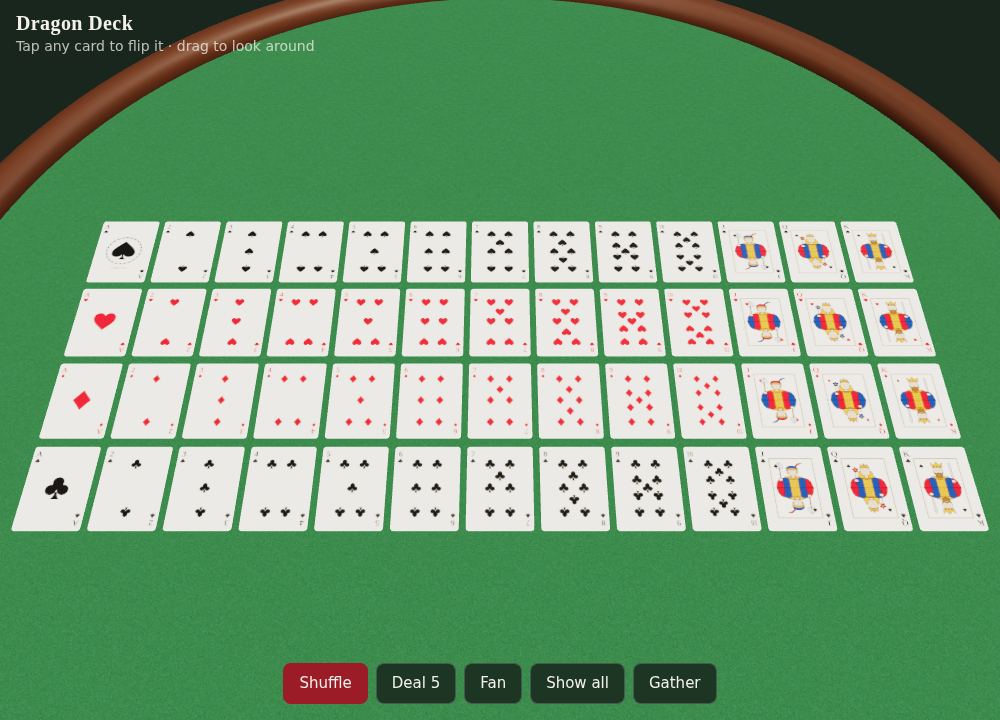
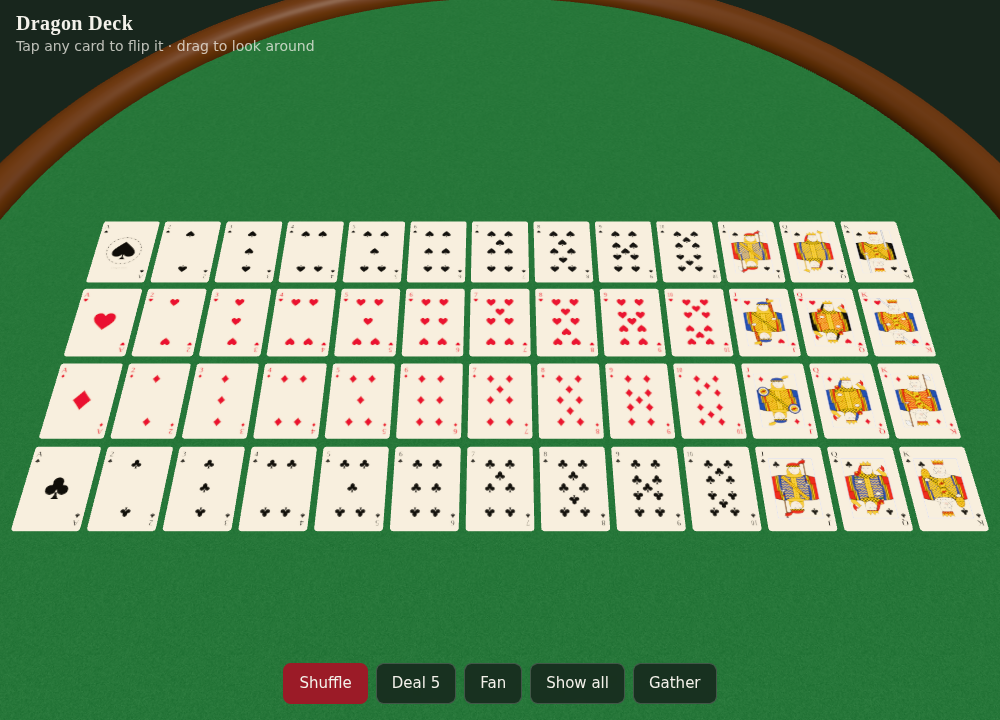
Traditional-style court cards with dragon touches
Redraws J, Q and K in the classic printed style: flat red, yellow, blue
and black with heavy outlines, patterned robes, double-ended figures
meeting on a diagonal, and a large suit symbol in the frame corner.
Dragon references: dragon-scale cloth, a dragon badge on each king's
chest, a dragon egg (K clubs), dragon-wing sword guard and axe blade,
a little dragon perched on each queen's shoulder, a dragon-headed
sceptre (Q spades), dragon-wing plumes on the jacks' caps and a dragon
shield (J diamonds).

Claude-Session: https://claude.ai/code/session_011sbz8Qg3PLjYgjJ6kkM3NU

diff --git a/cardArt.js b/cardArt.js
@@ -60,85 +60,174 @@ function ace(ctx,s){
   ctx.fillStyle=INK.black;ctx.font=`italic 15px Georgia,serif`;ctx.textAlign="center";ctx.fillText("Dragon Deck",W/2,H/2+118);
 }
 
-/* ---------- court cards (J, Q, K): a double-ended figure, mirrored top to bottom like real cards ---------- */
+/* ---------- court cards (J, Q, K) ----------
+   Drawn in the traditional printed style: flat red, yellow, blue and black with heavy outlines and patterned robes.
+   The top half is drawn once; then the canvas is turned 180 degrees and the same drawing fills the bottom half.
+   The two halves meet on a diagonal, like real cards.
+   Dragon touches: dragon-scale cloth, a dragon badge on each king's chest, a little dragon perched on each
+   queen's shoulder, a dragon-wing plume in each jack's cap, and dragon-themed things in their hands. */
+const CK={red:"#d0281e",yellow:"#f2cd1d",blue:"#2b4ea6",black:"#151515",white:"#fffdf6",steel:"#e8edf3"};
+// colours, cloth pattern and the item each court card holds
+const COURT={
+  KS:{robe:"red",sleeve:"black",pat:"scales",item:"sword"},   KH:{robe:"red",sleeve:"blue",pat:"checker",item:"swordBehind"},
+  KC:{robe:"blue",sleeve:"red",pat:"scales",item:"egg"},      KD:{robe:"red",sleeve:"blue",pat:"zigzag",item:"axe"},
+  QS:{robe:"blue",sleeve:"red",pat:"scales",item:"sceptre"},  QH:{robe:"red",sleeve:"black",pat:"checker",item:"rose"},
+  QC:{robe:"blue",sleeve:"red",pat:"zigzag",item:"rose"},     QD:{robe:"red",sleeve:"blue",pat:"scales",item:"rose"},
+  JS:{robe:"blue",sleeve:"red",pat:"checker",item:"halberd"}, JH:{robe:"red",sleeve:"blue",pat:"scales",item:"feather"},
+  JC:{robe:"blue",sleeve:"red",pat:"zigzag",item:"arrow"},    JD:{robe:"red",sleeve:"blue",pat:"scales",item:"shield"},
+};
+// small repeating cloth patterns, drawn once at double resolution and reused
+const patterns={};
+function pattern(ctx,kind,a,b){
+  const key=kind+a+b;
+  if(!patterns[key]){
+    const size={checker:[12,12],scales:[12,10],zigzag:[12,10],stripes:[8,8],dots:[10,10]}[kind];
+    const c=document.createElement("canvas");c.width=size[0]*2;c.height=size[1]*2;
+    const g=c.getContext("2d");g.scale(2,2);g.fillStyle=a;g.fillRect(0,0,size[0],size[1]);g.fillStyle=b;g.strokeStyle=b;
+    if(kind==="checker"){g.fillRect(0,0,6,6);g.fillRect(6,6,6,6)}
+    if(kind==="scales"){g.strokeStyle=CK.black;g.lineWidth=.9;for(const[x,y]of[[0,0],[12,0],[6,5],[0,10],[12,10]]){g.beginPath();g.arc(x,y,5.6,0,Math.PI);g.fill();g.stroke()}}
+    if(kind==="zigzag"){g.lineWidth=2.4;g.beginPath();g.moveTo(-1,8);g.lineTo(6,2);g.lineTo(13,8);g.stroke()}
+    if(kind==="stripes")g.fillRect(0,0,3.5,8);
+    if(kind==="dots"){g.beginPath();g.arc(5,5,1.5,0,7);g.fill();g.fillRect(4.4,5,1.2,3.5)}
+    patterns[key]=c;
+  }
+  const p=ctx.createPattern(patterns[key],"repeat");p.setTransform(new DOMMatrix().scale(.5));return p;
+}
+
 function court(ctx,rank,s){
-  const red=suitColor(s)===INK.red,main=red?INK.red:INK.blue,second=red?INK.blue:INK.red;
-  const fx=52,fy=62,fw=196,fh=296;
-  ctx.save();ctx.beginPath();ctx.rect(fx,fy,fw,fh);ctx.clip();
-  ctx.fillStyle="#fffdf6";ctx.fillRect(fx,fy,fw,fh);
-  for(const flip of[false,true]){
-    ctx.save();ctx.translate(W/2,H/2);if(flip)ctx.rotate(Math.PI);
-    ctx.beginPath();ctx.rect(-fw/2,-fh/2,fw,fh/2);ctx.clip();
-    figure(ctx,rank,s,main,second);
+  const fx=52,fy=62,fw=196,fh=296,o=COURT[rank+s];
+  ctx.fillStyle=CK.white;ctx.fillRect(fx,fy,fw,fh);
+  for(const turn of[0,Math.PI]){
+    ctx.save();ctx.translate(W/2,H/2);ctx.rotate(turn);
+    ctx.beginPath();ctx.moveTo(-fw/2,-fh/2);ctx.lineTo(fw/2,-fh/2);ctx.lineTo(fw/2,-22);ctx.lineTo(-fw/2,22);ctx.clip(); // the diagonal half
+    ctx.save();courtFigure(ctx,rank,s,o);ctx.restore();
+    suit(ctx,s,-67,-118,36);
     ctx.restore();
   }
-  ctx.restore();
-  ctx.strokeStyle=INK.black;ctx.lineWidth=2;ctx.strokeRect(fx,fy,fw,fh);
-  ctx.strokeStyle=INK.gold;ctx.lineWidth=1.5;ctx.strokeRect(fx+4,fy+4,fw-8,fh-8);
-  ctx.strokeStyle=INK.black;ctx.lineWidth=1.5;ctx.beginPath();ctx.moveTo(fx,H/2);ctx.lineTo(fx+fw,H/2);ctx.stroke();
+  ctx.strokeStyle=CK.black;ctx.lineWidth=1.2;ctx.beginPath();ctx.moveTo(fx,H/2+22);ctx.lineTo(fx+fw,H/2-22);ctx.stroke();
+  ctx.strokeStyle=CK.blue;ctx.lineWidth=1.6;ctx.strokeRect(fx,fy,fw,fh);
 }
-// one half-figure, drawn with its waist at (0,0) and head toward -y
-function figure(ctx,rank,s,main,second){
-  const line=(w=2)=>{ctx.lineWidth=w;ctx.strokeStyle=INK.black;ctx.lineJoin="round";ctx.lineCap="round"};
-  const shape=(d,fill)=>{const p=new Path2D(d);ctx.fillStyle=fill;ctx.fill(p);line();ctx.stroke(p)};
-  const hair=rank==="K"?"#9a6a1c":INK.gold;
-  ctx.translate(0,4);ctx.scale(.9,.9);
 
-  // the item they hold, behind the body: K a sword, Q a flower, J a halberd
-  if(rank==="K"){shape("M62 -6L58 -132L64 -146L70 -132L66 -6Z","#dfe4ea");shape("M46 -30H82V-24H46Z",INK.gold)}
-  if(rank==="J"){shape("M-66 -2L-63 -120L-59 -120L-62 -2Z","#8a5a2b");shape("M-61 -146C-44 -138 -40 -122 -46 -110L-61 -114Z",'#dfe4ea');shape("M-61 -146C-78 -138 -82 -122 -76 -110L-61 -114Z",'#dfe4ea')}
+// one half-figure: frame centre at (0,0), head toward -y, the figure's head a little right of centre
+function courtFigure(ctx,rank,s,o){
+  const C=k=>CK[k]||k;
+  const ink=(lw=1.8,col=CK.black)=>{ctx.lineWidth=lw;ctx.strokeStyle=col;ctx.lineJoin="round";ctx.lineCap="round"};
+  const fill=(d,f,lw=1.8)=>{const p=new Path2D(d);ctx.fillStyle=f;ctx.fill(p);ink(lw);ctx.stroke(p)};
+  const line=(d,lw=1.2,col=CK.black)=>{ink(lw,col);ctx.stroke(new Path2D(d))};
+  const pat=(kind,a,b)=>pattern(ctx,kind,C(a),C(b));
+  const hand=(x,y)=>{fill(`M${x-8} ${y}C${x-9} ${y-8} ${x+7} ${y-10} ${x+9} ${y-2}C${x+9} ${y+6} ${x-7} ${y+7} ${x-8} ${y}Z`,CK.white,1.5);line(`M${x-3} ${y-6}V${y+4}M${x+2} ${y-6}V${y+4}`,1)};
+  const roundel=(x,y,r)=>{ // a gold badge with a red dragon curled inside
+    fill(`M${x+r} ${y}A${r} ${r} 0 1 1 ${x-r} ${y}A${r} ${r} 0 1 1 ${x+r} ${y}Z`,CK.yellow,1.5);
+    ctx.save();ctx.translate(x,y);ctx.scale(r/14,r/14);
+    fill("M-8 7C-12 2 -8 -3 -2 -1C3 1 7 -1 6 -6L10 -9L9 -4L12 -3L8 -1C8 5 1 6 -3 4C-6 3 -7 5 -5 8Z",CK.red,1);
+    fill("M-1 -1L-5 -9L1 -5L3 -10L4 -2Z",CK.red,1);
+    ctx.restore();
+  };
+  const robe=C(o.robe),sleeve=C(o.sleeve);
+  ctx.translate(-6,22);ctx.scale(1.25,1.25); // enlarge so the figure fills the frame, like real court cards
+  const headSpace=()=>{ctx.save();ctx.translate(10,-70);ctx.scale(.8,.8);ctx.translate(-10,70)}; // heads a little smaller than the body
 
-  // robe: shoulders, a centre panel, and a gold collar
-  shape("M-92 0C-90 -32 -78 -54 -40 -62H40C78 -54 90 -32 92 0Z",main);
-  shape("M-22 0V-60H22V0Z",INK.gold);
-  ctx.fillStyle=INK.black;for(let y=-50;y<0;y+=12)for(const x of[-10,0,10]){ctx.beginPath();ctx.arc(x+(y/12&1?5:0),y,1.6,0,7);ctx.fill()}
-  shape("M-92 0C-90 -32 -80 -52 -60 -58L-52 0Z",second);
-  shape("M92 0C90 -32 80 -52 60 -58L52 0Z",second);
-  shape("M-44 -64C-30 -48 30 -48 44 -64C30 -72 -30 -72 -44 -64Z",INK.gold);
-  ctx.fillStyle=main;for(let x=-30;x<=30;x+=15){ctx.beginPath();ctx.arc(x,-60,3,0,7);ctx.fill()}
+  /* items carried behind the body (shifted in so they stay inside the frame) */
+  const inward=()=>{ctx.save();ctx.translate(-24,o.item==="sceptre"?18:0)};
+  inward();
+  if(o.item==="swordBehind"){fill("M58 -40L-36 -150L-28 -152L64 -46Z",CK.steel,1.6);line("M61 -43L-32 -151",1,CK.blue)}
+  if(o.item==="halberd"||o.item==="sceptre"||o.item==="axe"||o.item==="arrow")fill("M72 -16V-136H77V-16Z",o.item==="sceptre"?CK.yellow:"#9a6a2c",1.5);
+  if(o.item==="feather"){fill("M70 -30C50 -70 44 -110 58 -146C76 -110 80 -70 70 -30Z",pat("scales","yellow","red"),1.6);line("M70 -30C62 -70 58 -110 58 -146",1.2)}
 
-  // hands holding the item
-  if(rank==="K")shape("M54 -40C54 -50 74 -50 74 -40C74 -30 54 -30 54 -40Z",INK.skin);
-  if(rank==="J")shape("M-74 -50C-74 -60 -54 -60 -54 -50C-54 -40 -74 -40 -74 -50Z",INK.skin);
-  if(rank==="Q"){
-    shape("M-56 -20C-58 -50 -52 -80 -48 -96","none");
-    for(let i=0;i<5;i++){const a=i/5*Math.PI*2;ctx.save();ctx.translate(-48,-104);ctx.rotate(a);shape("M0 0C-6 -6 -6 -14 0 -16C6 -14 6 -6 0 0Z",second);ctx.restore()}
-    ctx.fillStyle=INK.gold;ctx.beginPath();ctx.arc(-48,-104,4,0,7);ctx.fill();
-    shape("M-64 -44C-64 -54 -44 -54 -44 -44C-44 -34 -64 -34 -64 -44Z",INK.skin);
-  }
+  ctx.restore();
 
-  // long hair (queen) goes behind the head
-  if(rank==="Q")shape("M-30 -96C-40 -80 -40 -64 -32 -58H32C40 -64 40 -80 30 -96Z",hair);
-  // neck and head
-  shape("M-9 -70V-60H9V-70Z",INK.skin);
-  shape("M0 -122C17 -122 24 -110 24 -96C24 -80 14 -70 0 -70C-14 -70 -24 -80 -24 -96C-24 -110 -17 -122 0 -122Z",INK.skin);
-  // face: eyes, brows, nose, mouth
-  ctx.fillStyle=INK.black;for(const x of[-9,9]){ctx.beginPath();ctx.ellipse(x,-98,2.4,1.8,0,0,7);ctx.fill()}
-  line(1.4);ctx.beginPath();ctx.moveTo(-14,-104);ctx.quadraticCurveTo(-9,-107,-4,-104);ctx.moveTo(4,-104);ctx.quadraticCurveTo(9,-107,14,-104);
-  ctx.moveTo(0,-98);ctx.lineTo(-3,-88);ctx.lineTo(1,-87);ctx.moveTo(-6,-80);ctx.quadraticCurveTo(0,-77,6,-80);ctx.stroke();
-  ctx.fillStyle="rgba(214,90,90,.35)";for(const x of[-14,14]){ctx.beginPath();ctx.arc(x,-86,4,0,7);ctx.fill()}
-  // beard (king), side curls (jack)
-  if(rank==="K")shape("M-22 -92C-22 -70 -12 -60 0 -56C12 -60 22 -70 22 -92C16 -82 10 -78 0 -78C-10 -78 -16 -82 -22 -92Z",hair);
-  if(rank==="K")shape("M-12 -84C-6 -88 6 -88 12 -84C6 -82 -6 -82 -12 -84Z",hair);
-  if(rank==="J")for(const x of[-22,22])shape(`M${x} -112C${x*1.35} -104 ${x*1.35} -88 ${x} -80C${x*.9} -90 ${x*.9} -104 ${x} -112Z`,hair);
+  /* robe: sleeves, chest panel, trims */
+  fill("M-100 40V-38C-96 -56 -74 -64 -44 -68H52C80 -64 96 -56 100 -40V40Z",robe);
+  fill("M-100 40V-38C-96 -56 -80 -62 -58 -66C-62 -40 -60 -10 -52 40Z",sleeve);
+  fill("M100 40V-38C96 -56 80 -62 60 -66C64 -40 62 -10 56 40Z",sleeve);
+  fill("M-58 -66C-62 -40 -60 -10 -52 40H-42C-50 -10 -52 -40 -48 -67Z",pat("stripes","yellow",CK.black),1.4);
+  fill("M60 -66C64 -40 62 -10 56 40H46C54 -10 54 -40 50 -67Z",pat("stripes","yellow",CK.black),1.4);
+  fill("M-40 40C-44 0 -44 -40 -38 -68H44C48 -40 48 0 44 40Z",pat(o.pat,o.robe,"yellow"),1.4);
+  fill("M-6 40V-68H14V40Z",pat("dots","yellow",CK.black),1.4);
+  if(rank!=="Q")fill("M-40 -60L-30 -68L48 24L40 34Z",pat(o.pat==="scales"?"checker":"scales",o.pat==="scales"?"yellow":"red",o.pat==="scales"?CK.black:"yellow"),1.4);
 
-  // headwear: crown (king), tiara (queen), feathered cap (jack)
+  headSpace();
+  /* hair and veil behind the head */
+  if(rank==="K"){fill("M-14 -100C-20 -84 -18 -70 -12 -64H36C42 -70 42 -86 36 -100Z",CK.white,1.6);line("M-12 -90C-14 -80 -12 -72 -8 -66M32 -92C36 -82 36 -72 32 -66",1,CK.blue)}
+  if(rank==="J")fill("M-16 -104C-26 -88 -24 -72 -16 -62H38C46 -72 46 -88 38 -104Z",CK.yellow,1.6);
+  if(rank==="Q"){fill("M-14 -100C-22 -84 -20 -70 -14 -62H36C42 -70 42 -86 36 -100Z",CK.yellow,1.6);fill("M-14 -120C-28 -104 -32 -84 -36 -62L-18 -60C-18 -80 -14 -100 -6 -118Z",sleeve,1.6)}
+  ctx.restore();
+
+  /* neck, collar */
+  fill("M2 -76V-64H18V-76Z",CK.white,1.4);
+  if(rank==="K")fill("M-28 -66C-14 -52 34 -52 48 -66C40 -78 -20 -78 -28 -66Z",pat("dots",CK.white,CK.black),1.6);
+  if(rank==="Q")fill("M-28 -66C-14 -52 34 -52 48 -66C40 -78 -20 -78 -28 -66Z",pat("checker","yellow",CK.black),1.6);
+  if(rank==="J")fill("M-24 -66C-12 -56 32 -56 44 -66C36 -76 -16 -76 -24 -66Z",CK.yellow,1.6);
+  if(rank==="K")roundel(4,-34,14);
+
+  headSpace();
+  /* face: three-quarter view, looking to the left */
+  fill("M12 -124C30 -124 38 -112 38 -98C38 -82 30 -72 14 -71C2 -71 -6 -78 -10 -90L-15 -95L-10 -98C-10 -112 -4 -124 12 -124Z",CK.white,1.8);
+  fill("M-7 -101Q-1 -105 5 -101Q-1 -98 -7 -101Z",CK.white,1.1);fill("M13 -101Q19 -105 25 -101Q19 -98 13 -101Z",CK.white,1.1);
+  ctx.fillStyle=CK.blue;for(const x of[-1,18]){ctx.beginPath();ctx.arc(x,-101,1.7,0,7);ctx.fill()}
+  line("M-8 -106Q-1 -109 5 -106M13 -106Q19 -109 26 -106",1.3);
+  line("M8 -102L4 -90L9 -89",1.2);
+  line("M2 -82Q8 -80 14 -82",1.4,CK.red);
+  line("M28 -92Q32 -88 30 -84",1,CK.blue);
   if(rank==="K"){
-    shape("M-26 -118L-30 -146L-16 -132L0 -150L16 -132L30 -146L26 -118Z",INK.gold);
-    for(const[x,c]of[[-15,second],[0,main],[15,second]]){ctx.fillStyle=c;ctx.beginPath();ctx.arc(x,-124,3.5,0,7);ctx.fill()}
+    fill("M-6 -84C-4 -70 4 -62 14 -60C24 -62 32 -70 34 -84C28 -78 20 -76 14 -78C8 -76 0 -78 -6 -84Z",CK.white,1.5);
+    line("M4 -76C6 -70 8 -66 12 -62M14 -74V-62M24 -76C22 -70 20 -66 16 -62",.9,CK.blue);
+    fill("M-2 -86C4 -90 12 -90 18 -86C14 -84 10 -85 8 -87C6 -85 2 -84 -2 -86Z",CK.white,1.3);
+  }
+
+  /* headwear */
+  if(rank==="K"){
+    fill("M-12 -120L-14 -132H38L36 -120Z",pat("scales","yellow","red"),1.6);
+    fill("M-14 -132L-16 -147L-5 -139L4 -148L12 -139L20 -148L28 -139L39 -147L38 -132Z",CK.yellow,1.6);
+    ctx.fillStyle=CK.red;for(const x of[-4,12,28]){ctx.beginPath();ctx.arc(x,-136,2.5,0,7);ctx.fill()}
   }
   if(rank==="Q"){
-    shape("M-24 -112C-26 -122 -18 -128 0 -128C18 -128 26 -122 24 -112C14 -118 -14 -118 -24 -112Z",hair);
-    shape("M-22 -120L-18 -138L-8 -128L0 -142L8 -128L18 -138L22 -120Z",INK.gold);
-    ctx.fillStyle=main;ctx.beginPath();ctx.arc(0,-130,3,0,7);ctx.fill();
+    fill("M-12 -118L-14 -132L-4 -126L5 -140L14 -126L24 -140L32 -126L38 -132L36 -118Z",CK.yellow,1.6);
+    fill("M-12 -118H36V-114H-12Z",pat("checker",CK.red,CK.black),1.2);
+    ctx.fillStyle=CK.blue;ctx.beginPath();ctx.arc(14,-124,2.6,0,7);ctx.fill();
   }
   if(rank==="J"){
-    shape("M-28 -110C-30 -132 30 -132 28 -110C14 -116 -14 -116 -28 -110Z",main);
-    shape("M-30 -110H30V-104H-30Z",INK.gold);
-    shape("M18 -126C30 -144 50 -146 56 -140C44 -138 32 -132 22 -120Z",second);
+    fill("M-18 -114C-20 -136 44 -140 42 -114Z",sleeve,1.6);
+    fill("M-20 -116H44V-109H-20Z",pat("checker","yellow",CK.black),1.4);
+    // dragon-wing plume
+    fill("M34 -128C42 -144 60 -148 74 -142C68 -138 68 -134 70 -128C64 -131 58 -130 56 -124C52 -127 46 -126 42 -120Z",robe===CK.red?CK.yellow:CK.red,1.5);
+    line("M38 -124L72 -140M38 -124L68 -130M38 -124L56 -124",.9);
   }
-  // the suit, tucked into the top corner of the frame
-  suit(ctx,s,-78,-126,24);
+  ctx.restore();
+
+  /* items held in front, and the hands that hold them */
+  inward();
+  const R=[74,-26]; // right hand (viewer's right)
+  if(o.item==="sword"){fill("M70 -38V-138L74 -146L78 -138V-38Z",CK.steel,1.6);line("M74 -40V-138",.9,CK.blue);
+    fill("M58 -34C64 -42 70 -40 74 -38C78 -40 84 -42 90 -34C84 -32 80 -31 74 -31C68 -31 64 -32 58 -34Z",CK.yellow,1.4);hand(...R)} // wing-shaped crossguard
+  if(o.item==="swordBehind"){fill("M50 -36L58 -48L70 -40L62 -28Z",CK.yellow,1.4);hand(62,-30)}
+  if(o.item==="axe"){fill("M77 -128C94 -138 100 -120 98 -104C92 -110 86 -110 82 -104C84 -112 82 -116 77 -114Z",CK.steel,1.6);line("M80 -124L96 -118M80 -118L94 -110",.8,CK.blue);hand(...R)} // blade shaped like a dragon wing
+  if(o.item==="halberd"){fill("M77 -122C92 -130 96 -112 92 -100C86 -106 82 -106 77 -104Z",CK.steel,1.5);fill("M72 -136L74.5 -150L77 -136Z",CK.steel,1.2);hand(...R)}
+  if(o.item==="arrow"){fill("M70 -134L74.5 -148L79 -134Z",CK.steel,1.4);fill("M68 -44L74.5 -54L81 -44L74.5 -48Z",CK.red,1.2);hand(...R)}
+  if(o.item==="sceptre"){ // topped with a dragon's head
+    fill("M74 -134C64 -134 58 -140 62 -146C68 -150 78 -148 84 -142L90 -140L84 -136L78 -134Z",CK.yellow,1.5);
+    fill("M70 -146L64 -154L74 -148Z",CK.yellow,1.1);ctx.fillStyle=CK.black;ctx.beginPath();ctx.arc(76,-142,1.4,0,7);ctx.fill();hand(...R)}
+  if(o.item==="feather")hand(70,-30);
+  ctx.restore();
+  if(o.item==="egg"){ // a dragon egg instead of an orb
+    ctx.save();ctx.translate(16,0);
+    fill("M-60 -96C-48 -96 -44 -80 -44 -70C-44 -58 -52 -52 -60 -52C-68 -52 -76 -58 -76 -70C-76 -80 -72 -96 -60 -96Z",pat("scales",CK.red,"yellow"),1.6);
+    fill("M-76 -72H-44V-66H-76Z",CK.yellow,1.2);hand(-60,-48);ctx.restore()}
+  if(o.item==="shield"){ctx.save();ctx.translate(10,8);fill("M-36 -64A22 22 0 1 1 -80 -64A22 22 0 1 1 -36 -64Z",CK.blue,1.8);fill("M-41 -64A17 17 0 1 1 -75 -64A17 17 0 1 1 -41 -64Z",CK.white,1.2);roundel(-58,-64,13);ctx.restore()}
+  if(o.item==="rose"){
+    line("M-24 -40C-28 -50 -30 -62 -28 -74",1.6,"#2f7a2f");
+    fill("M-28 -60C-36 -64 -40 -58 -38 -54C-34 -56 -30 -56 -28 -60Z","#3c8c3c",1);
+    for(let i=0;i<5;i++){const a=i/5*Math.PI*2;fill(`M${-28+Math.cos(a)*5} ${-80+Math.sin(a)*5}A5.5 5.5 0 1 1 ${-28+Math.cos(a)*5-.01} ${-80+Math.sin(a)*5}Z`,CK.red,1)}
+    ctx.fillStyle=CK.yellow;ctx.beginPath();ctx.arc(-28,-80,3,0,7);ctx.fill();hand(-24,-40)}
+  if(rank==="Q"&&o.item!=="sceptre"){ // a little dragon perched on the queen's shoulder, looking at her (the spade queen's is on her sceptre)
+    ctx.save();ctx.translate(66,-64);ctx.scale(-1,1);
+    fill("M-8 -18C-14 -30 -10 -42 0 -46C-2 -38 2 -34 8 -34C4 -30 0 -24 -4 -18Z",CK.red,1.2);             // wing
+    fill("M-12 0C-16 -8 -12 -16 -4 -18C2 -19 6 -22 8 -28C12 -31 17 -29 18 -25L22 -22L16 -20C14 -16 12 -12 8 -8C6 -3 2 0 -12 0Z",CK.yellow,1.3); // body and head
+    fill("M10 -29L6 -36L13 -31Z",CK.yellow,1);                                                            // horn
+    line("M-12 0C-20 2 -24 -4 -20 -8",1.6);                                                               // tail
+    ctx.fillStyle=CK.black;ctx.beginPath();ctx.arc(14,-26,1.2,0,7);ctx.fill();
+    ctx.restore();
+  }
 }
 
 /* ---------- the back: two dragons chasing a pearl, the same both ways up ---------- */
